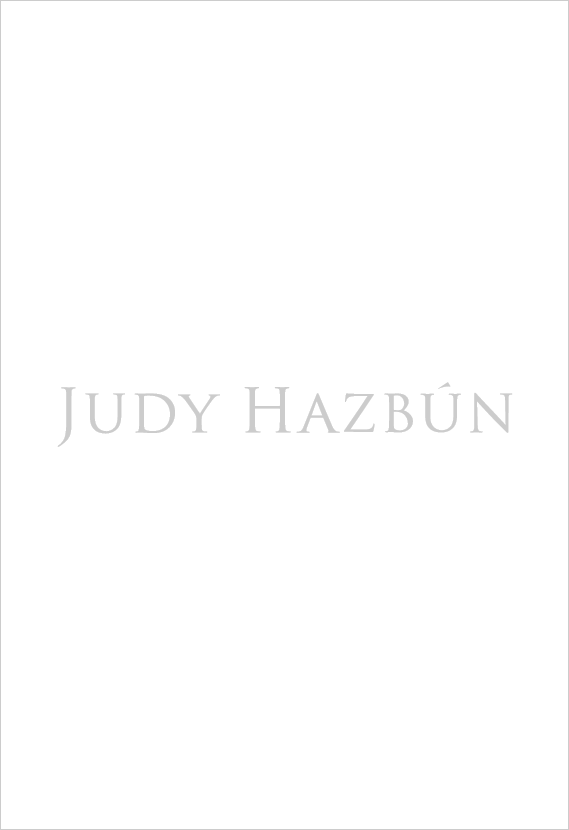
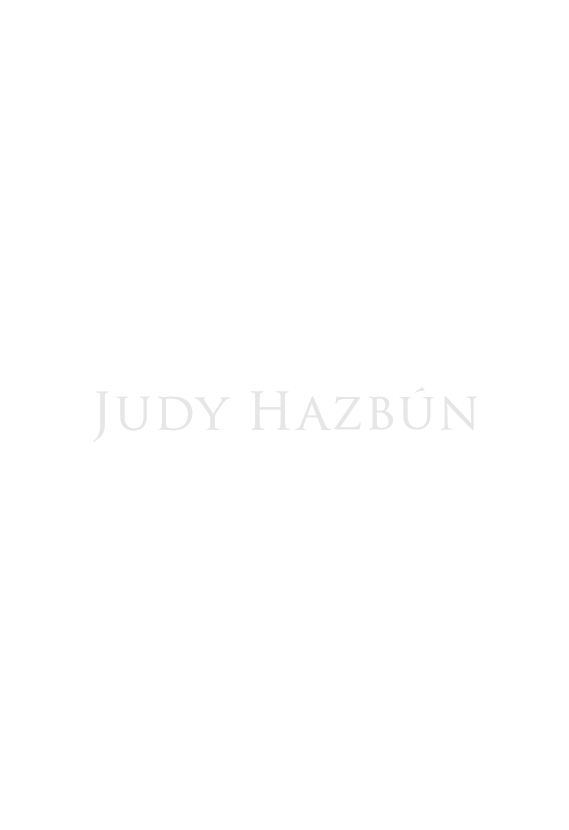
home page loading

diff --git a/app/assets/javascripts/home.js b/app/assets/javascripts/home.js
@@ -4,6 +4,8 @@
 
 
 var ready = function() {
+
+  $('.home-image-text').delay(5000).fadeIn(3000);
   
 	$('#home-image-1').on('mouseover', function() {
         $('#home-image-1-text').css("background-color", "white");
